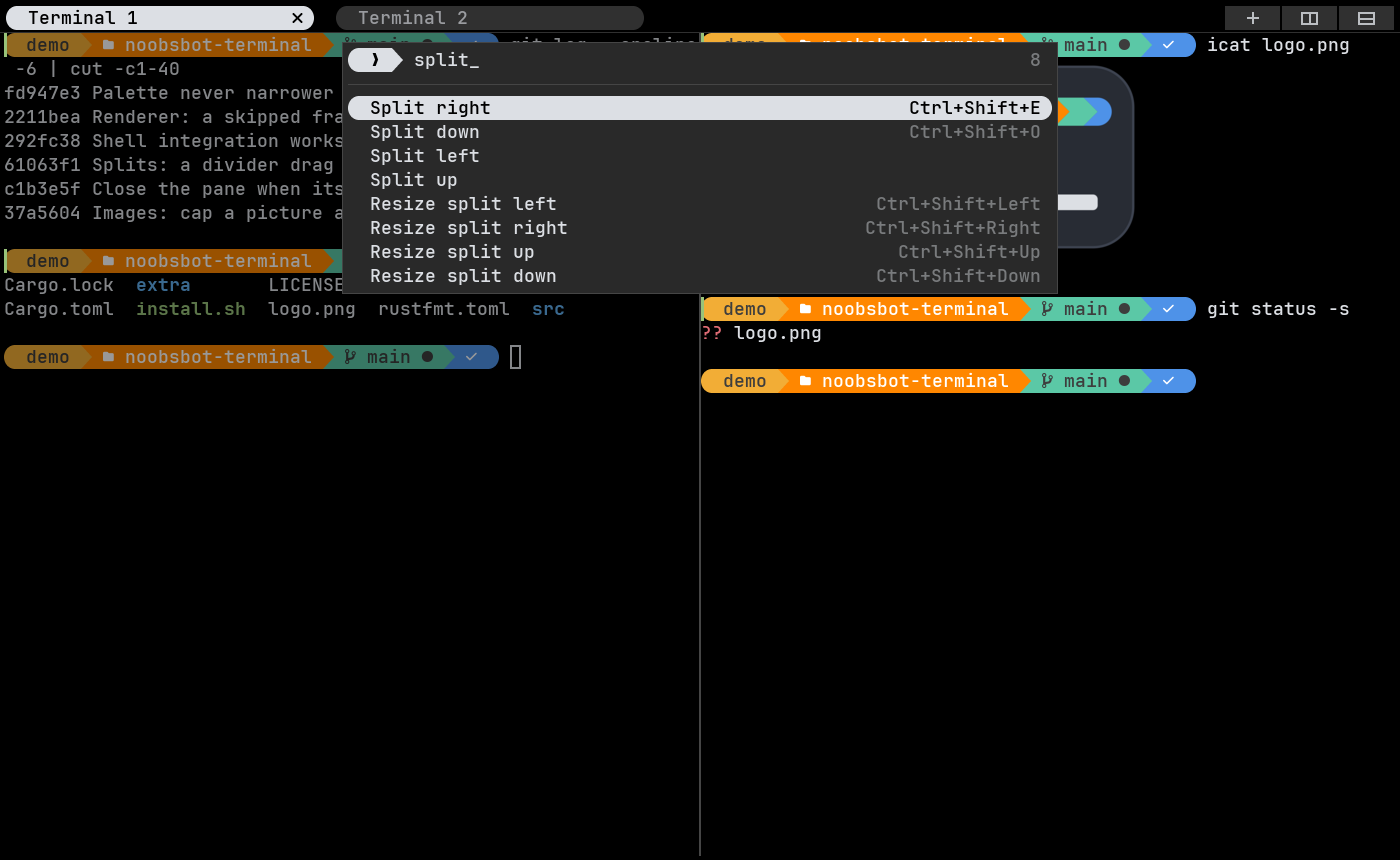
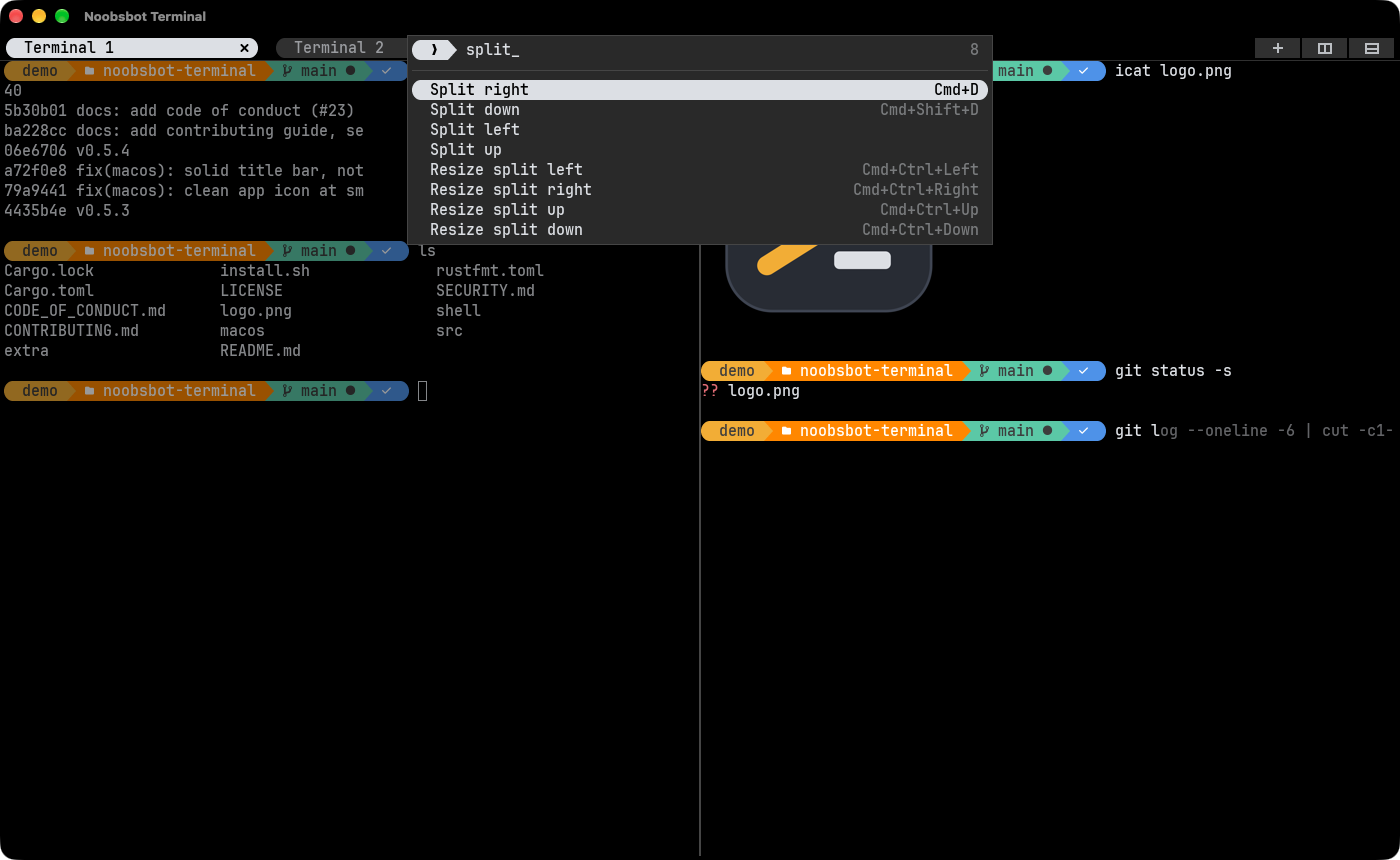
docs: new README screenshots (#26)

Changed region(s): [[0.0, 0.0, 1.0, 0.514], [0.9829, 0.9977, 1.0, 1.0], [0.0, 0.9977, 0.0307, 1.0]]

diff --git a/README.md b/README.md
@@ -11,7 +11,7 @@
 
 <p align="center">
   <a href="LICENSE"><img src="https://img.shields.io/badge/license-MIT-f2ad36?style=flat-square" alt="MIT license"></a>
-  <img src="https://img.shields.io/badge/platform-Linux-4e92e8?style=flat-square&logo=linux&logoColor=white" alt="Linux">
+  <img src="https://img.shields.io/badge/platform-Linux%20%C2%B7%20macOS-4e92e8?style=flat-square" alt="Linux and macOS">
   <img src="https://img.shields.io/badge/written%20in-Rust-ff8700?style=flat-square&logo=rust&logoColor=white" alt="Rust">
   <img src="https://img.shields.io/badge/shells-zsh%20·%20bash%20·%20fish-5bc8a6?style=flat-square" alt="zsh, bash, fish">
 </p>
@@ -26,12 +26,9 @@
 
 ![Split panes and an inline image](extra/screenshots/main.png)
 
-<table>
-  <tr>
-    <td align="center"><img src="extra/screenshots/palette.png" alt="Command palette"><br><sub><b>Command palette</b> (Ctrl+Shift+P)</sub></td>
-    <td align="center"><img src="extra/screenshots/crt.png" alt="CRT mode"><br><sub><b>CRT mode</b></sub></td>
-  </tr>
-</table>
+<p align="center"><sub>Screenshots from the macOS app. On Linux it looks the same, without the title bar.</sub></p>
+
+<p align="center"><img src="extra/screenshots/palette.png" alt="Command palette"><br><sub><b>Command palette</b> (Ctrl+Shift+P, on macOS Cmd+Shift+P)</sub></p>
 
 <a id="install"></a>
 
